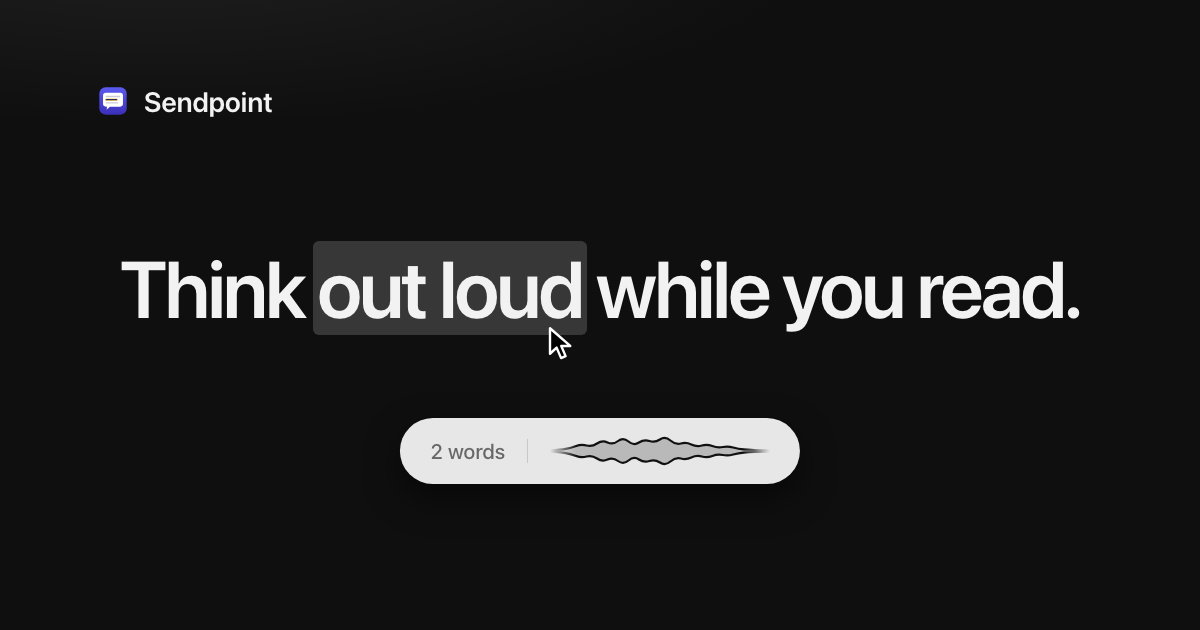
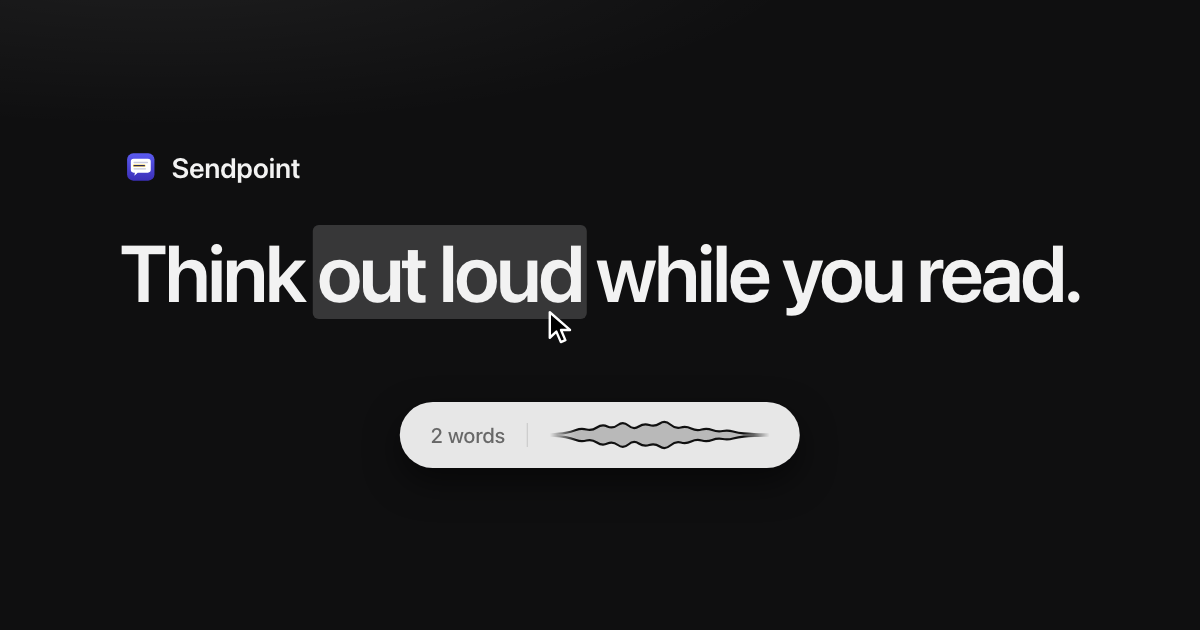
cleanup

diff --git a/web/og-card.html b/web/og-card.html
@@ -5,18 +5,22 @@
   body{width:1200px;height:630px;overflow:hidden;background:#0f0f10;color:#f2f2f2;font-family:-apple-system,BlinkMacSystemFont,"SF Pro Text","Segoe UI",Roboto,Helvetica,Arial,sans-serif;-webkit-font-smoothing:antialiased;position:relative}
   /* a faint light from above, like the site's panel */
   body::before{content:"";position:absolute;left:-20%;right:-20%;top:-10%;height:70%;background:radial-gradient(55% 60% at 24% 0%,rgba(255,255,255,.07),transparent 72%)}
-  .brand{position:absolute;left:96px;top:84px;display:flex;align-items:center;gap:14px;font-weight:600;font-size:28px;letter-spacing:-.01em}
+  /* one centred column, as wide as the headline: the brand sits on its left
+     edge, the capsule on its centre line */
+  .stack{position:absolute;left:50%;top:150px;transform:translateX(-50%);display:flex;flex-direction:column;align-items:center}
+  .brand{align-self:flex-start;display:flex;align-items:center;gap:14px;font-weight:600;font-size:28px;letter-spacing:-.01em;margin:0 0 44px 4px}
   .brand img{width:34px;height:34px}
-  h1{position:absolute;left:0;right:0;top:244px;margin:0;text-align:center;font-size:80px;line-height:1.1;letter-spacing:-.034em;font-weight:600;white-space:nowrap}
+  h1{margin:0;font-size:80px;line-height:1.1;letter-spacing:-.034em;font-weight:600;white-space:nowrap}
   /* the selected words, washed the way the site highlights a passage */
   .sel{position:relative;background:rgba(255,255,255,.17);border-radius:6px;padding:0 .06em;margin:0 -.06em}
   .sel svg{position:absolute;width:30px;height:38px;left:calc(100% - .5em);top:calc(100% - .12em)}
   /* the voice capsule, in its dark-mode inversion: white paper, black ink */
-  .capsule{position:absolute;left:50%;top:418px;transform:translateX(-50%);display:flex;align-items:center;gap:22px;height:66px;padding:0 30px;border-radius:40px;background:rgba(250,250,250,.92);color:#111;box-shadow:0 14px 34px rgba(0,0,0,.5)}
+  .capsule{margin-top:86px;display:flex;align-items:center;gap:22px;height:66px;padding:0 30px;border-radius:40px;background:rgba(250,250,250,.92);color:#111;box-shadow:0 14px 34px rgba(0,0,0,.5)}
   .capsule .n{font-size:21px;font-weight:500;color:rgba(0,0,0,.55);font-variant-numeric:tabular-nums}
   .capsule .rule{width:1px;height:24px;background:rgba(0,0,0,.14)}
   .capsule svg{width:220px;height:44px;display:block}
 </style></head><body>
+  <div class="stack">
   <div class="brand"><img src="public/icon.svg">Sendpoint</div>
   <h1>Think <span class="sel">out loud<svg viewBox="0 0 20 24" aria-hidden="true"><path d="M2 1.5 L2 18.5 L6.4 14.4 L9.4 21.4 L12.4 20.1 L9.5 13.3 L15.5 13.3 Z" fill="#000" stroke="#fff" stroke-width="1.6" stroke-linejoin="round"/></svg></span> while you read.</h1>
   <div class="capsule">
@@ -35,5 +39,6 @@
               fill="rgba(0,0,0,.2)" stroke="rgba(0,0,0,.92)" stroke-width="2.2" stroke-linejoin="round"/>
       </g>
     </svg>
+  </div>
   </div>
 </body></html>
